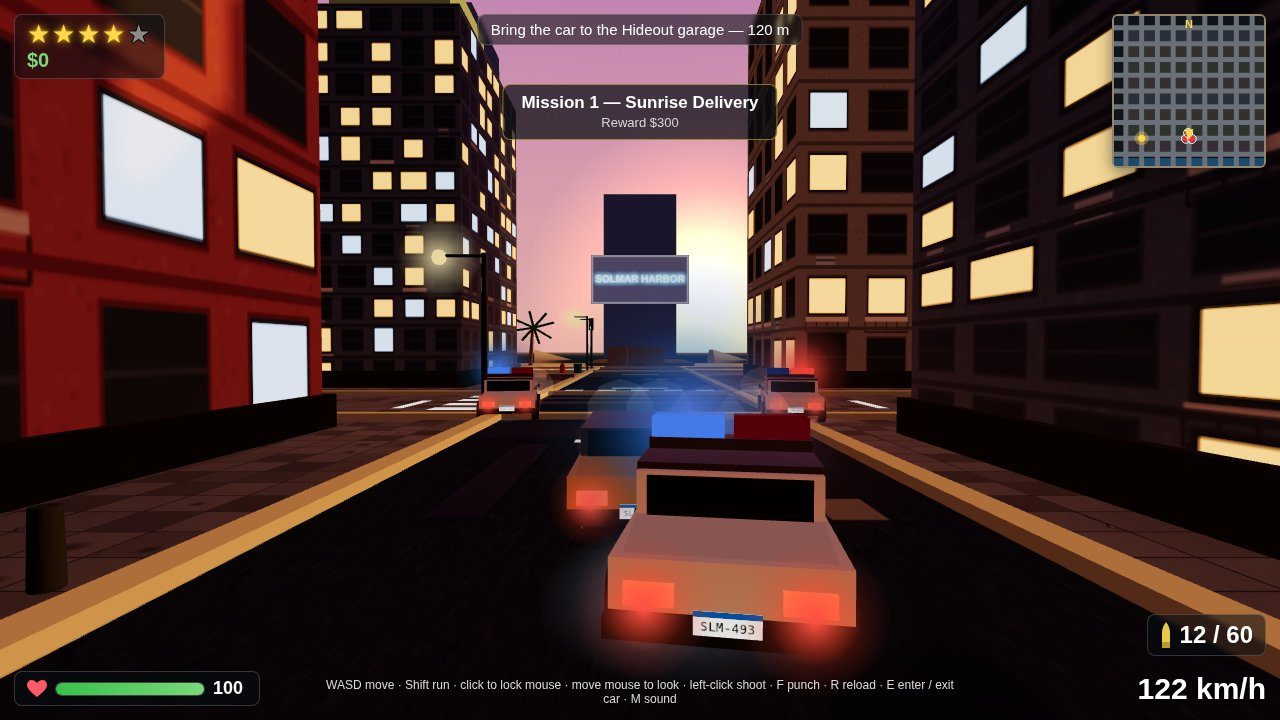
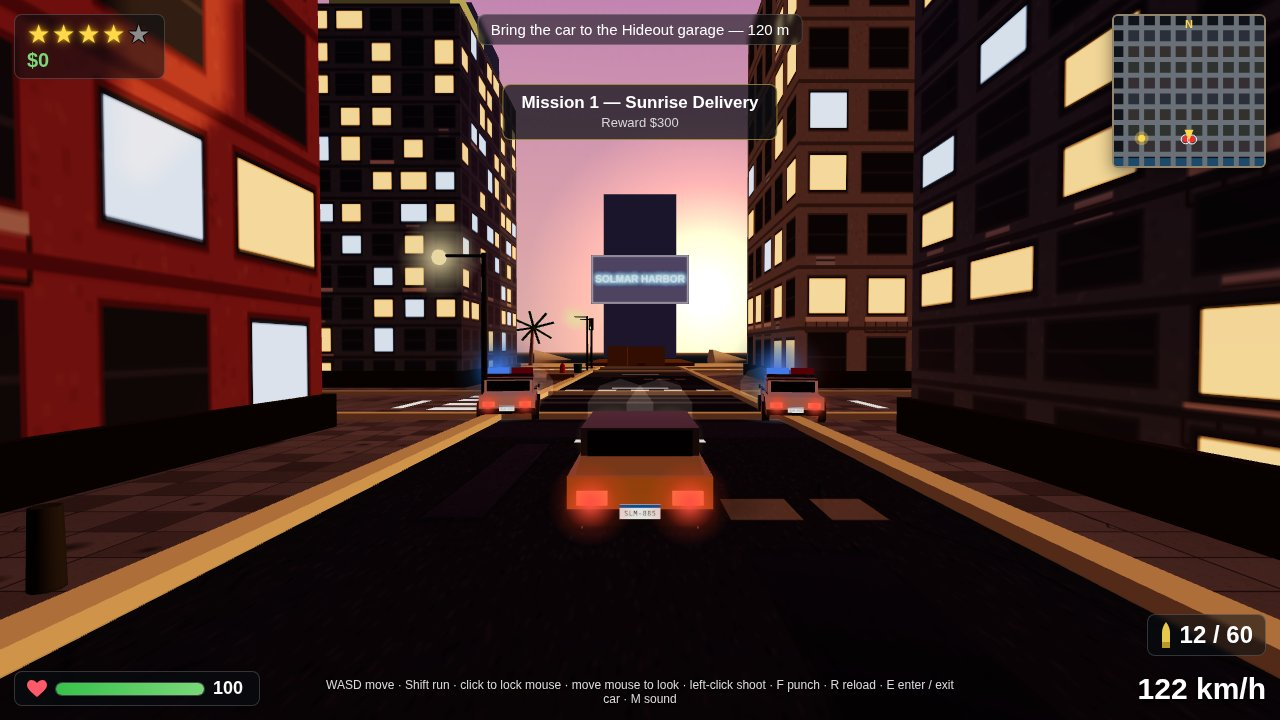
Solmar City polish: civilian getaway car, readable tower sign, filled foregrounds, staged street life
- Chase cover: removed the lagging third escort cruiser whose light bar
  landed on the player's roof; the getaway car is a civilian sedan again.
  Swept pedestrians off the chase route to a distant point so none looms
  at the lens. 122 km/h, SOLMAR HARBOR big and readable.
- Foot shot: bench + planter in front of the lens fill the dark bottom
  band; CAFE LUNA sign large and clean.
- Mission shot: tower west sign enlarged to 28x14 and raised to y=80;
  camera tilted up (pitch -0.12) so the sign reads SOLMAR TOWER at a
  glance; objective pill hidden so it cannot cover the sign; Mission
  complete +$300 banner kept; two foreground cars and a crosser staged
  on the crosswalk fill the lower frame.
- City shot: a traffic car staged stopped at the northbound stop line
  with the clock pinned into the red phase (S.time=10), so the frame
  shows a car waiting at a red light; witness '!' markers read clearly.
- All four stage functions now snap the camera to its staged spot at
  once (updateCamera(1)): the headless game clock runs ~80x behind real
  time, so the per-frame camera ease never settled before the shutter
  and one run shot the foot scene pressed against a building wall.
- Harness 17/17, 0 console errors, 0 external requests.

Changed region(s): [[0.4375, 0.3972, 0.6875, 0.9472], [0.9062, 0.1833, 0.9375, 0.2139]]

diff --git a/game/js/main.js b/game/js/main.js
@@ -251,16 +251,33 @@ export function stageChase() {
       shifted++;
     }
   }
+  // Pedestrians wander onto the chase route as well — one was standing
+  // right beside the getaway car in the cover, about to be run over.
+  // Shove any ped on road x=0 (z 20..180) well clear: to the east
+  // sidewalk AND far up the road (z=170), so it reads as a small figure
+  // in the distance instead of a giant looming at the lens. Merely
+  // pushing it sideways (x=12) left it level with the camera, huge at
+  // the frame's edge.
+  for (const ped of S.peds) {
+    const pp = ped.mesh.position;
+    if (Math.abs(pp.x) < 8 && pp.z > 20 && pp.z < 180) {
+      pp.x = 20;
+      pp.z = 170;
+    }
+  }
   S.heat = 65; // 4 stars
   S.objectiveText = 'Bring the car to the Hideout garage';
-  // Three cruisers pace the car in formation — two flanking ahead, one
-  // level on the left — all ahead of the chase camera, so none of them
-  // stacks on top of the player's car in the frame.
+  // Two cruisers pace the car in formation, one flanking ahead on each
+  // side, so the frame reads as a chase without any cruiser stacking on
+  // the player's car. A third cruiser used to ride level with the player
+  // on the left, but it lagged behind its slot, drifted in behind the
+  // getaway car, and its light bar landed right on the player's roof in
+  // the cover — the getaway car read as a police cruiser. Two ahead is
+  // the clean shot.
   S.debug.pacing = true;
   const escort = [
     [-7.5, 110, 34, { side: -7.5, fwd: 10 }],
     [7.5, 110, 34, { side: 7.5, fwd: 10 }],
-    [-7.5, 98, 34, { side: -7.5, fwd: 0 }],
   ];
   for (const [cx, cz, speed, slot] of escort) {
     const cruiser = spawnCruiser(cx, cz);
@@ -270,6 +287,11 @@ export function stageChase() {
     cruiser.pace = slot;
   }
   S.camYaw = 0;
+  // Snap the lens to its staged spot at once. The headless game clock
+  // runs far behind real time, so the camera's per-frame ease never
+  // settles before the shutter — without this the cover is shot from
+  // wherever the lens happened to drift to, not from behind the car.
+  updateCamera(1);
 }
 
 export function stageCity() {
@@ -304,6 +326,32 @@ export function stageCity() {
     if (Math.abs(t.mesh.position.x) >= 12 || Math.abs(t.mesh.position.z) >= 12) continue;
     t.mesh.position.set(120, 0, -120);
   }
+  // The headless game clock runs far behind real time (about 0.1 s of
+  // game time per 8 s of real time), so the traffic-light cycle is still
+  // on its opening phase at the shutter — north-south green, not red.
+  // Pin the clock into the red phase (the 16 s cycle runs red from
+  // t=8 to t=16) so the stopped car below is genuinely waiting at a red
+  // light instead of sitting under a green one.
+  S.time = 10;
+  // A car stopped at the red light, so the frame shows the traffic
+  // system working instead of an empty street: take one of the cars
+  // that was just cleared out of the frame and park it at the
+  // northbound stop line of this intersection, facing north, speed
+  // zero. Its tail lamps glow (they are emissive), so it reads as a
+  // car waiting at the light with its brake lights on. The north-south
+  // light is red at the 8 s shutter (the 16 s cycle runs red from
+  // t=8 to t=16, and the clock starts near zero at boot).
+  for (const t of S.trafficCars) {
+    if (Math.abs(t.mesh.position.x) < 30 && Math.abs(t.mesh.position.z) < 30) continue;
+    t.mesh.position.set(-2.4, 0, -10.4);
+    t.mesh.rotation.y = 0;
+    t.heading = 0;
+    t.speed = 0;
+    t.cruise = 0;
+    t.alongX = false;
+    t.road = 0;
+    break;
+  }
   // Foreground interest, so the lower frame is a street, not bare pavement:
   // a car parked at the left kerb, just ahead of the camera.
   spawnParkedCar(-4, 1.5, 0, 0x3a7ad8);
@@ -314,6 +362,9 @@ export function stageCity() {
   placeWalkers([[3, -5, 0.4, 'cross'], [-3.5, -4.5, -0.5, 'cross'], [-1, -16, 2.8, 'walk'], [6, -2, -2.0, 'walk']]);
   // One shot, flash held open for the camera.
   fireAndHold();
+  // Snap the lens to its staged spot at once (see stageChase): the
+  // headless clock lags, so the per-frame ease never settles in time.
+  updateCamera(1);
 }
 
 // Move the first few pedestrians to fixed spots (x, z, heading, mode) so a
@@ -368,40 +419,75 @@ export function stageMission() {
   // east. The tower's south face is 20 m north of that road, and no nearer
   // tower stands in the same column (looking north from road x=80, the
   // (100,-60) tower sits directly in front of it and hides it).
-  player.pos.x = -40;
+  // Stand at x=-20, not -40: twenty metres closer to the tower, so the
+  // west-face sign reads bigger in the frame instead of a distant speck.
+  // The 22 m tower row north of this road still clears the sightline —
+  // the line of sight to the sign at y=68 passes well above it.
+  player.pos.x = -20;
   player.pos.z = -80;
-  player.group.position.set(-40, 0, -80);
+  player.group.position.set(-20, 0, -80);
   player.heading = Math.PI / 2; // facing east, down road z=-80 toward the tower
   S.camYaw = -Math.PI / 2;
   // Framing fix: the camera used to sit almost on the ground looking up
   // (pitch clamped to -0.15), so the near pavement filled the bottom half
   // of the frame. Raised to 0.22 at 10 m, the camera looks nearly level:
   // the tower fills the upper frame and the near pavement drops out.
-  S.camPitch = 0.22;
+  // That level look could not see the tower sign at all — the lens
+  // always points at the player's chest (y=1.55), so a sign 80 m up
+  // sits above the frame. Tilt the lens up (pitch -0.12) so the tower
+  // and its sign come into the upper frame; the street still fills the
+  // lower half.
+  S.camPitch = -0.12;
   S.camDist = 10;
   // Street life: a talking pair further down the road for depth, a waiter
   // at the kerb in the lower-left foreground, one more walker on the
   // north sidewalk close to the camera, and one waiting at the south
   // kerb in the lower-right foreground, so the lower frame has people
-  // in it instead of bare pavement.
-  placeWalkers([[-20, -82, 1.2, 'talk', 1], [-18.5, -82, -1.2, 'talk', 0], [-41.4, -83.5, 0.6, 'wait'], [-46, -73.5, -1.6, 'wait'], [-44, -71, 0.5, 'wait']]);
+  // in it instead of bare pavement. Last of all, a crosser standing on
+  // the crosswalk at the intersection (0,-80): the headless clock runs
+  // so slowly that a walker placed further back never reaches the
+  // stripes by the shutter, so it is staged on the crossing itself,
+  // mid-stride across the east-west road.
+  placeWalkers([[0, -82, 1.2, 'talk', 1], [1.5, -82, -1.2, 'talk', 0], [-21.4, -83.5, 0.6, 'wait'], [-26, -73.5, -1.6, 'wait'], [-24, -71, 0.5, 'wait'], [0, -80, 0, 'cross']]);
+  // The crosser needs its crossing spelled out: across the east-west road
+  // z=-80, from the north sidewalk to the south one. placeWalkers only
+  // sets the mode; without these the defaults would send it across the
+  // wrong road.
+  const crosser = S.peds[5];
+  if (crosser) {
+    crosser.crossFrom = 1;
+    crosser.crossAxis = 'ew';
+    crosser.crossRoad = -80;
+  }
   debugCompleteMission1();
   // debugCompleteMission1 teleports the player to the park; put them back
   // on the road with the tower in view.
-  player.pos.x = -40;
+  player.pos.x = -20;
   player.pos.z = -80;
-  player.group.position.set(-40, 0, -80);
+  player.group.position.set(-20, 0, -80);
   player.heading = Math.PI / 2;
   // A car parked in the lower-right foreground, close enough to the
-  // camera (about 8 m now) that it reads as a car in the street and
+  // camera (about 7 m now) that it reads as a car in the street and
   // fills the lower frame instead of leaving it bare: its roof stays
   // below the frame centre and its plate is fully in frame, not cut
-  // off at the right edge.
-  spawnParkedCar(-43, -75, Math.PI / 2, 0xd84a4a);
-  // The completion banner stands alone; the objective line reports the
-  // payout instead of the stale "pick up" instruction at 0 m.
-  S.objectiveText = 'Mission 1 complete — $300 earned';
+  // off at the right edge. It sits far enough down the road (east)
+  // that the low, upward-tilted lens looks over its roof at the tower
+  // instead of into its side.
+  spawnParkedCar(-21, -75.5, Math.PI / 2, 0xd84a4a);
+  // A second car in the lower-left foreground, just ahead of the lens
+  // on the road itself, so the bottom of the frame has cars on both
+  // sides instead of one car and a wide empty stretch of tarmac. It
+  // sits low enough (roof ~1.5 m) that it never hides the tower.
+  spawnParkedCar(-21, -84.5, Math.PI / 2, 0x3a7ad8);
+  // The completion banner stands alone. The objective line is left
+  // blank on purpose: its pill sits across the very top of the frame,
+  // exactly where the tower sign now lands, and would hide the sign's
+  // letters. The banner below it still says Mission complete +$300.
+  S.objectiveText = '';
   S.objectiveDist = null;
+  // Snap the lens to its staged spot at once (see stageChase): the
+  // headless clock lags, so the per-frame ease never settles in time.
+  updateCamera(1);
 }
 
 export function stageFoot() {
@@ -438,6 +524,41 @@ export function stageFoot() {
   // lower frame. Both sit close to the camera's line of sight.
   spawnParkedCar(-72, -38, Math.PI / 2, 0xe8c832, 'taxi');
   spawnParkedCar(-57.4, -36, Math.PI / 2, 0x4ad87a);
+  // The bottom of the frame used to be a dark empty band of pavement:
+  // the camera sits low looking up at the sign, so the near ground
+  // fills the lower quarter with nothing on it. Fill it with street
+  // furniture right in front of the lens — a bench on the right and a
+  // planter on the left, both about three metres ahead of the camera,
+  // low enough to stay out of the sign and the cafe but tall enough to
+  // break the empty expanse into shapes. The camera itself stays put
+  // (the sign is only just inside the top of the frame as it is).
+  const benchSeat = new THREE.Mesh(
+    new THREE.BoxGeometry(2.2, 0.5, 0.7),
+    new THREE.MeshLambertMaterial({ color: 0x8a6a42 })
+  );
+  benchSeat.position.set(-55, 0.25, -31);
+  benchSeat.castShadow = true;
+  S.scene.add(benchSeat);
+  const planterPot = new THREE.Mesh(
+    new THREE.CylinderGeometry(0.55, 0.65, 0.8, 8),
+    new THREE.MeshLambertMaterial({ color: 0x5a6a4a })
+  );
+  planterPot.position.set(-62, 0.4, -31);
+  planterPot.castShadow = true;
+  S.scene.add(planterPot);
+  const planterBush = new THREE.Mesh(
+    new THREE.SphereGeometry(0.5, 8, 6),
+    new THREE.MeshLambertMaterial({ color: 0x3f8a3a })
+  );
+  planterBush.position.set(-62, 1.0, -31);
+  planterBush.castShadow = true;
+  S.scene.add(planterBush);
+  // Snap the lens to its staged spot at once (see stageChase): the
+  // headless clock lags, so the per-frame ease never settles in time.
+  // Without this the shot is taken from wherever the lens drifted to —
+  // in the last run it was pressed against a building wall and the
+  // cafe sign was out of frame entirely.
+  updateCamera(1);
 }
 
 export function fireAndHold() {

diff --git a/game/js/city.js b/game/js/city.js
@@ -737,14 +737,17 @@ function buildLandmarkTower() {
   // A second copy on the west face: the mission staging looks east down
   // road z=-80, so it sees the tower's west face, not the south face.
   // Without this the landmark reads as just another tall dark tower.
-  // It sits lower (y=75) than the south sign so it clears the HUD bars
-  // at the top of the frame from the street.
+  // It is big (28 m wide) and high (y=90) so the letters read at street
+  // distance and the sign clears the nearer rooftops that used to hide
+  // it — the earlier 24 m sign at y=68 sat behind a tall block and
+  // never made it into the mission frame. It sits below the mission
+  // banner at the top of the frame instead of hiding behind it.
   const signWest = new THREE.Mesh(
-    new THREE.PlaneGeometry(18, 9),
+    new THREE.PlaneGeometry(28, 14),
     new THREE.MeshBasicMaterial({ map: signTex2, side: THREE.FrontSide })
   );
   signWest.rotation.y = -Math.PI / 2;
-  signWest.position.set(cx - 13.2, 75, cz);
+  signWest.position.set(cx - 13.2, 80, cz);
   S.scene.add(signWest);
 }
 
